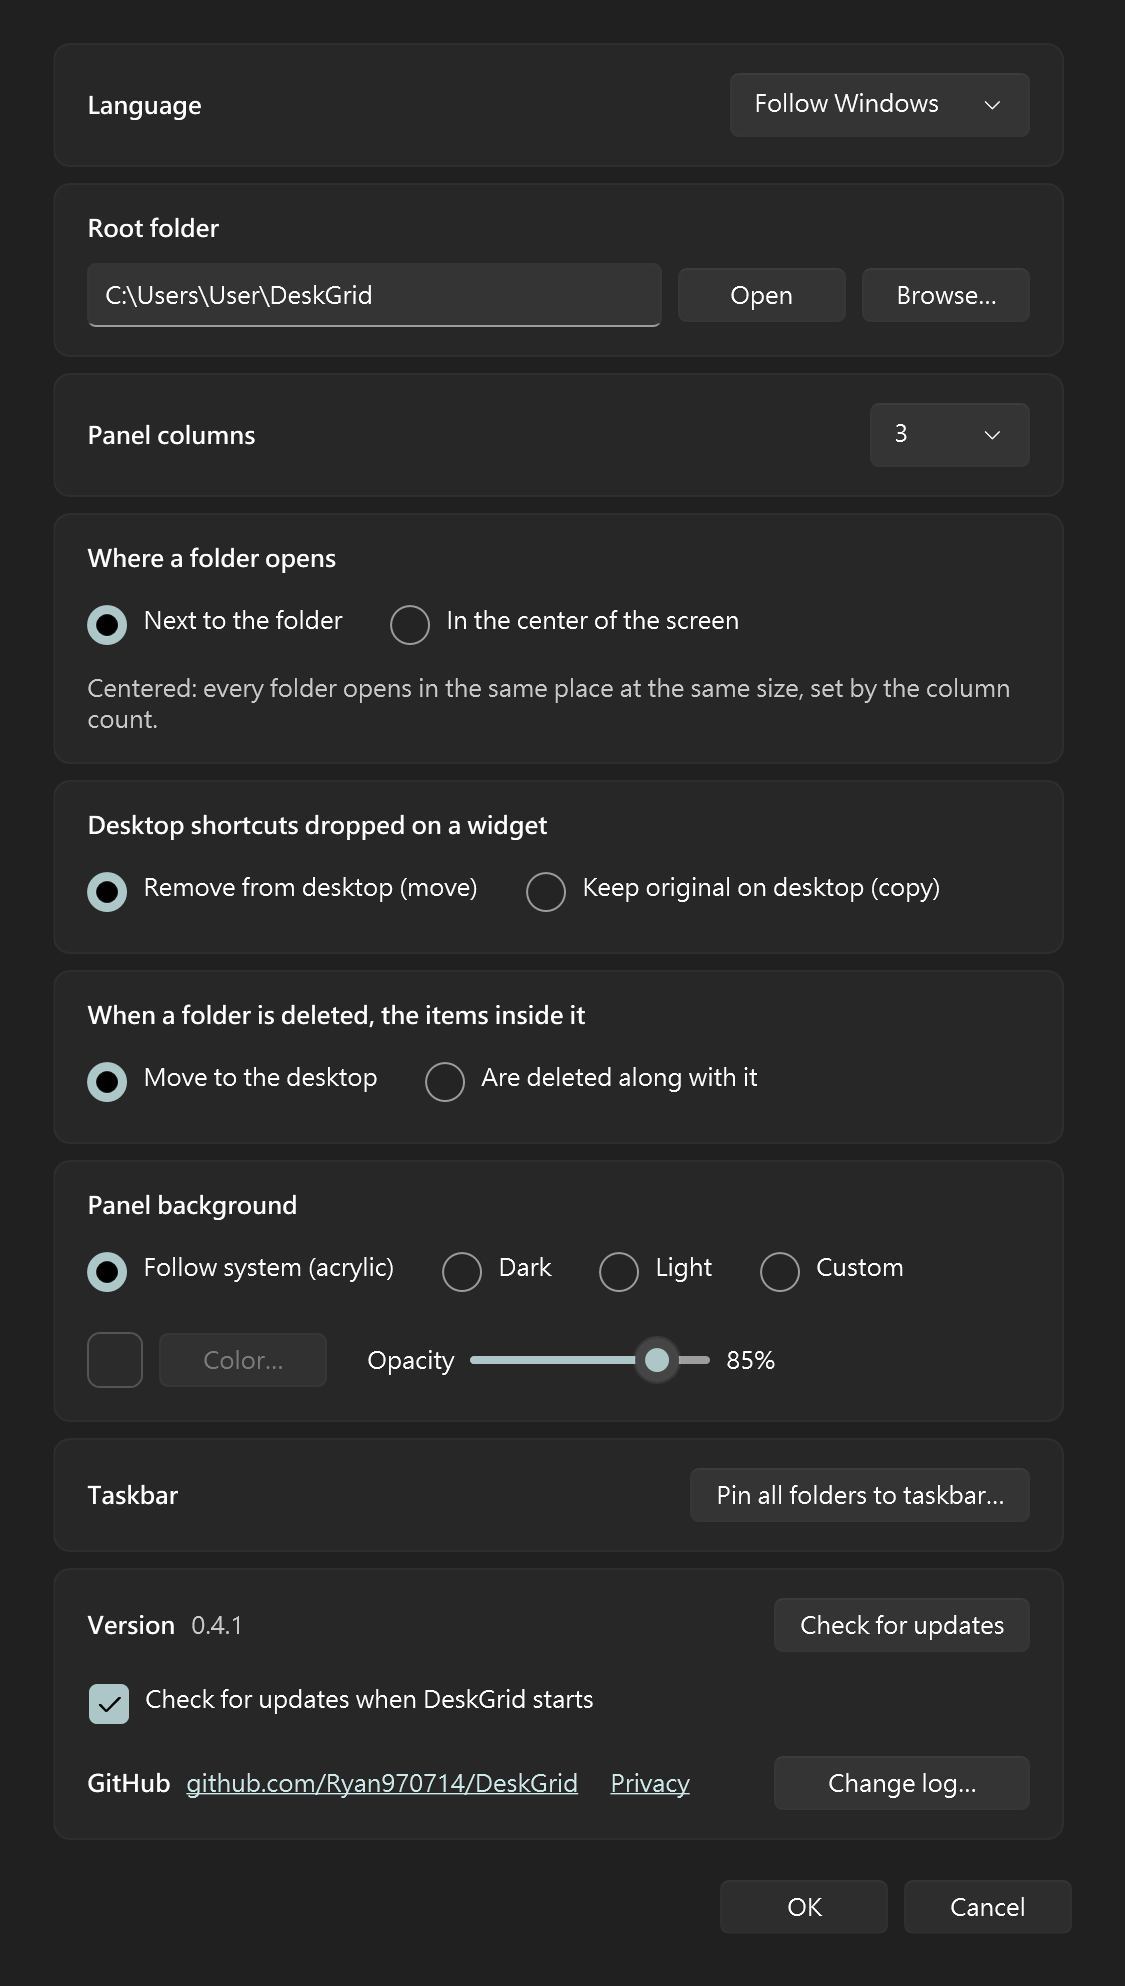
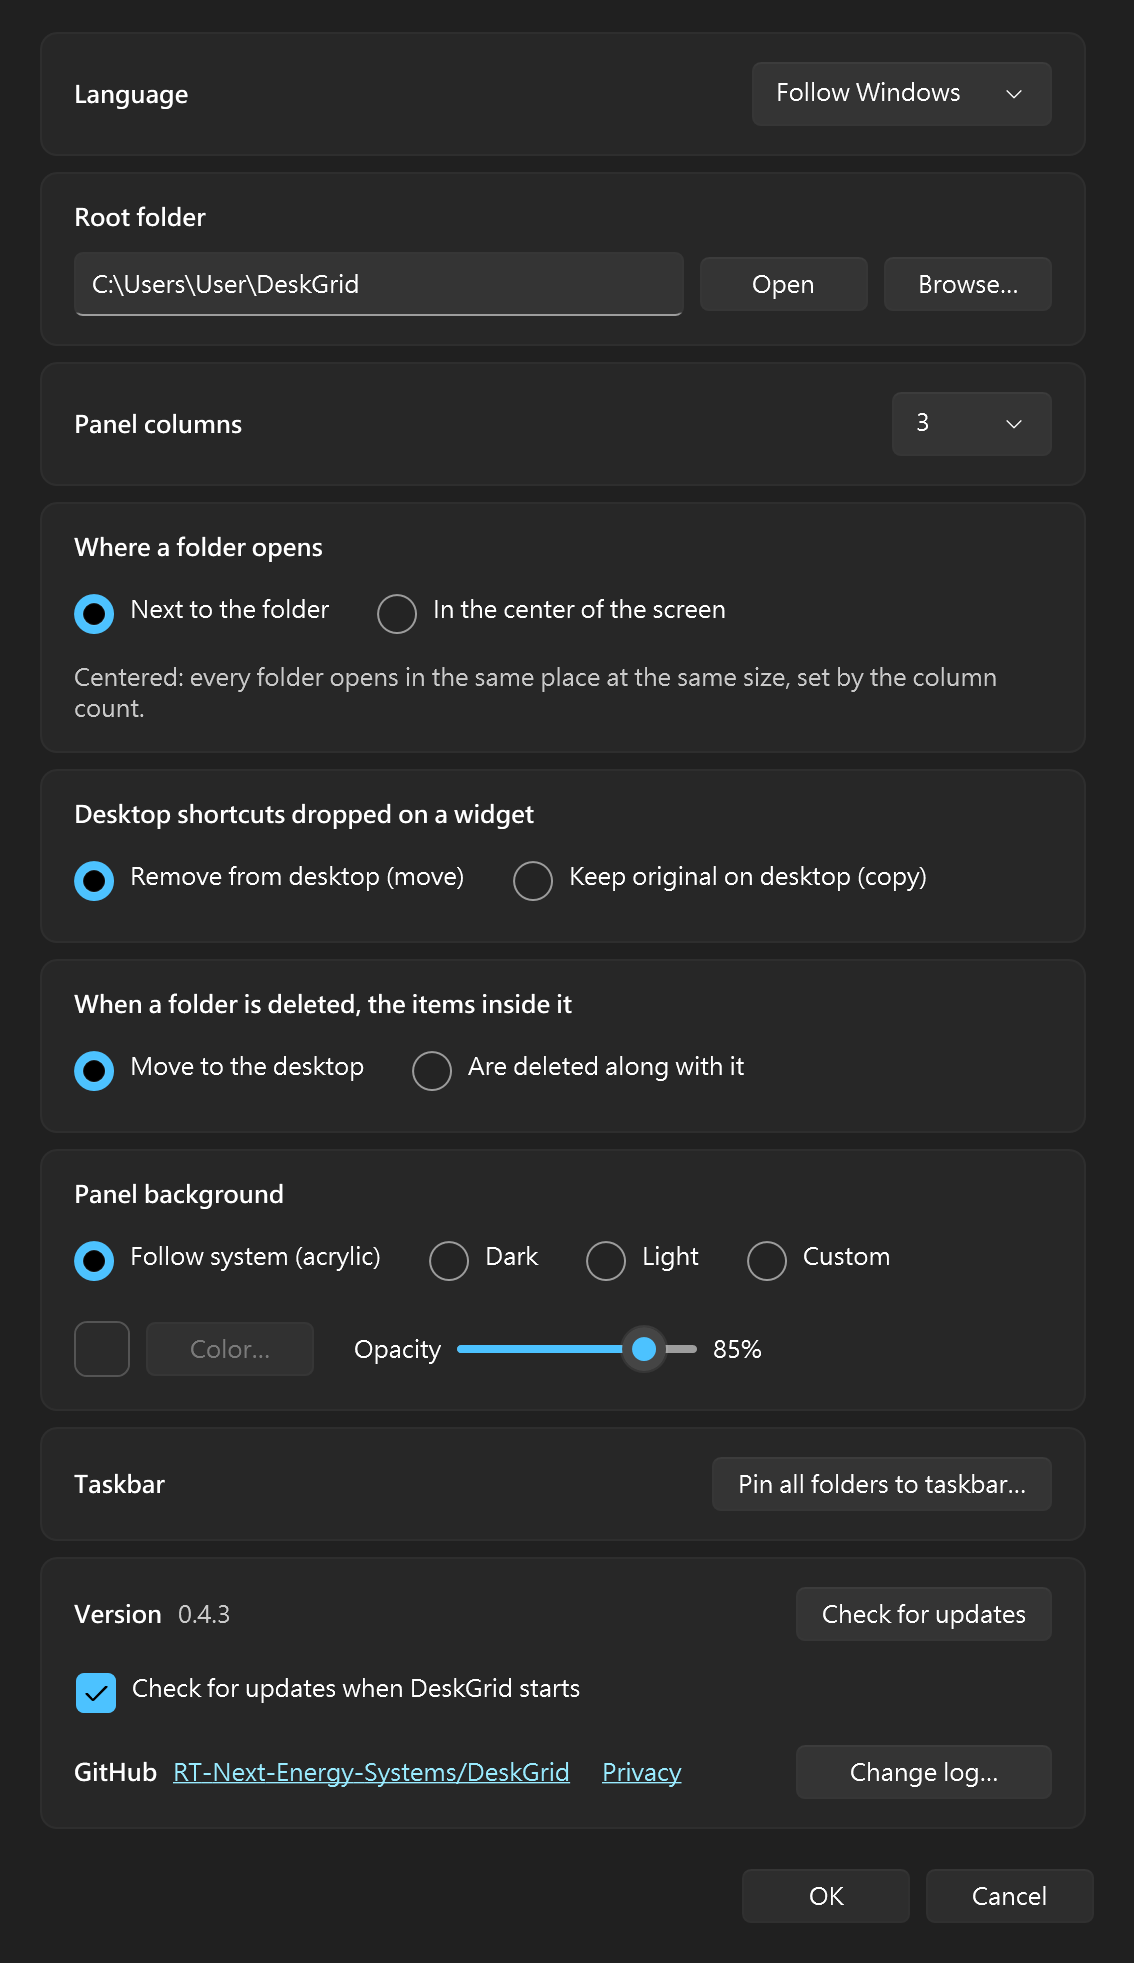
fix: keep the settings links clear of the Change log button
The repository's new address made the GitHub row wider than its column,
so the Privacy link ran under the Change log button. The link now shows
only owner/name (full address in the tooltip) and the row wraps instead
of overflowing. A test checks the row in both languages; the README's
settings screenshots are redrawn.

diff --git a/src/DeskGrid/Settings/SettingsWindow.xaml b/src/DeskGrid/Settings/SettingsWindow.xaml
@@ -129,12 +129,13 @@
 
             <CheckBox Grid.Row="1" Grid.Column="0" Grid.ColumnSpan="2" Margin="0,10,0,0" MinWidth="0" x:Name="CheckAtStartupBox" />
 
-            <StackPanel Grid.Row="2" Grid.Column="0" Margin="0,10,0,0" Orientation="Horizontal" VerticalAlignment="Center">
-              <TextBlock x:Name="GitHubLabel" FontWeight="SemiBold" />
-              <TextBlock Margin="8,0,0,0"><Hyperlink x:Name="GitHubLink" Click="OnGitHub" /></TextBlock>
-              <TextBlock Margin="16,0,0,0"><Hyperlink x:Name="PrivacyLink" Click="OnPrivacy" /></TextBlock>
-            </StackPanel>
-            <Button Grid.Row="2" Grid.Column="1" Margin="0,10,0,0" HorizontalAlignment="Stretch" MinWidth="84" Padding="12,5" x:Name="ChangeLogButton" Click="OnChangeLog" />
+            <!-- Wraps rather than running under the button when the links are too long for the column. -->
+            <WrapPanel Grid.Row="2" Grid.Column="0" Margin="0,10,12,0" VerticalAlignment="Center" x:Name="LinksRow">
+              <TextBlock x:Name="GitHubLabel" FontWeight="SemiBold" Margin="0,0,8,0" />
+              <TextBlock Margin="0,0,16,0"><Hyperlink x:Name="GitHubLink" Click="OnGitHub" /></TextBlock>
+              <TextBlock><Hyperlink x:Name="PrivacyLink" Click="OnPrivacy" /></TextBlock>
+            </WrapPanel>
+            <Button Grid.Row="2" Grid.Column="1" Margin="0,10,0,0" VerticalAlignment="Top" HorizontalAlignment="Stretch" MinWidth="84" Padding="12,5" x:Name="ChangeLogButton" Click="OnChangeLog" />
           </Grid>
         </Border>
       </StackPanel>

diff --git a/tests/DeskGrid.Tests/SettingsTests.cs b/tests/DeskGrid.Tests/SettingsTests.cs
@@ -1,5 +1,7 @@
 using System.Globalization;
 using System.IO;
+using System.Windows;
+using System.Windows.Media;
 using DeskGrid.Folders;
 using DeskGrid.Resources;
 using DeskGrid.Tray;
@@ -183,14 +185,7 @@ public sealed class SettingsWindowTests : IDisposable
         var picked = Enum.Parse<PanelBackgroundStyle>(pickedName);
         var choice = await _ui.InvokeAsync(() =>
         {
-            if (System.Windows.Application.Current is null)
-            {
-                // The windows take their card styles from App.xaml.
-                var app = new System.Windows.Application { ShutdownMode = System.Windows.ShutdownMode.OnExplicitShutdown };
-                app.Resources["Card"] = new System.Windows.Style(typeof(System.Windows.Controls.Border));
-                app.Resources["CardTitle"] = new System.Windows.Style(typeof(System.Windows.Controls.TextBlock));
-            }
-
+            EnsureApplication();
             var config = new AppConfig { RootPath = _root.Path, PanelBackground = new PanelBackground { Style = initial } };
             var window = new SettingsWindow(config);
             SettingsChoice? applied = null;
@@ -202,5 +197,62 @@ public sealed class SettingsWindowTests : IDisposable
         });
 
         Assert.Equal(picked, choice?.PanelBackground.Style);
+    }
+
+    [Theory]
+    [InlineData("en")]
+    [InlineData("zh-TW")]
+    public async Task GitHubRow_FitsBesideTheChangeLogButton(string culture)
+    {
+        var before = Strings.Culture;
+        try
+        {
+            var (overlaps, oneLine) = await _ui.InvokeAsync(() =>
+            {
+                EnsureApplication();
+                Strings.Culture = new CultureInfo(culture);
+                var window = new SettingsWindow(new AppConfig { RootPath = _root.Path });
+                try
+                {
+                    window.Show();
+                    window.UpdateLayout();
+                    var button = Bounds(window.ChangeLogButton, window);
+                    UIElement[] parts = [window.GitHubLabel, (UIElement)window.GitHubLink.Parent, (UIElement)window.PrivacyLink.Parent];
+                    var boxes = parts.Select(part => Bounds(part, window)).ToList();
+                    return (boxes.Any(box => box.IntersectsWith(button)), boxes.All(box => Math.Abs(box.Top - boxes[0].Top) < 1));
+                }
+                finally
+                {
+                    window.Close();
+                }
+            });
+
+            Assert.False(overlaps);
+            Assert.True(oneLine);
+        }
+        finally
+        {
+            Strings.Culture = before;
+        }
+    }
+
+    private static Rect Bounds(UIElement element, Visual root) =>
+        element.TransformToAncestor(root).TransformBounds(new Rect(element.RenderSize));
+
+    private static void EnsureApplication()
+    {
+        if (Application.Current is not null)
+        {
+            return;
+        }
+
+        // The windows take their card styles from App.xaml; the card's padding matters for what fits in a row.
+        var app = new Application { ShutdownMode = ShutdownMode.OnExplicitShutdown };
+        var card = new Style(typeof(System.Windows.Controls.Border));
+        card.Setters.Add(new Setter(System.Windows.Controls.Border.PaddingProperty, new Thickness(16, 14, 16, 14)));
+        card.Setters.Add(new Setter(System.Windows.Controls.Border.BorderThicknessProperty, new Thickness(1)));
+        card.Setters.Add(new Setter(FrameworkElement.MarginProperty, new Thickness(0, 0, 0, 8)));
+        app.Resources["Card"] = card;
+        app.Resources["CardTitle"] = new Style(typeof(System.Windows.Controls.TextBlock));
     }
 }

diff --git a/src/DeskGrid/Settings/SettingsWindow.xaml.cs b/src/DeskGrid/Settings/SettingsWindow.xaml.cs
@@ -142,8 +142,9 @@ internal partial class SettingsWindow : Window
         PinAllButton.Content = Strings.SettingsPinAll;
         GitHubLabel.Text = Strings.SettingsGitHub;
 
-        // Without the scheme: shorter, and it is still plainly the web address.
-        GitHubLink.Inlines.Add(UpdateChecker.RepositoryUrl["https://".Length..]);
+        // Only owner/name: the label already says GitHub, and the whole address would not fit beside the button.
+        GitHubLink.Inlines.Add(new Uri(UpdateChecker.RepositoryUrl).AbsolutePath.Trim('/'));
+        GitHubLink.ToolTip = UpdateChecker.RepositoryUrl;
         PrivacyLink.Inlines.Add(Strings.SettingsPrivacy);
         ChangeLogButton.Content = Strings.SettingsChangeLog;
         ColumnsLabel.Text = Strings.SettingsColumns;

diff --git a/CLAUDE.md b/CLAUDE.md
@@ -167,7 +167,7 @@ One folder per module, `src/DeskGrid/<Folder>/`, namespace `DeskGrid.<Folder>`.
 
 ## Version check and update
 
-- **Source**: `https://api.github.com/repos/RT-Next-Energy-Systems/DeskGrid/releases/latest` (anonymous, the 60 per hour limit is enough); drafts and prereleases are skipped; the tag minus `v` is compared with the assembly version (csproj `<Version>`) by major.minor.build. The exe asset is found by the suffix `-win-x64.exe` (the old v0.1.0 asset was called `DeskFolders-…`), the checksum file is `<exe name>.sha256`.
+- **Source**: `https://api.github.com/repos/RT-Next-Energy-Systems/DeskGrid/releases/latest` (anonymous, the 60 per hour limit is enough); drafts and prereleases are skipped; the tag minus `v` is compared with the assembly version (csproj `<Version>`) by major.minor.build (so a release number needs only three parts: a fourth, as in 0.4.2.1, is ignored and the release would never be offered). The exe asset is found by the suffix `-win-x64.exe` (the old v0.1.0 asset was called `DeskFolders-…`), the checksum file is `<exe name>.sha256`.
 - **Three choices**: Update (download → verify SHA256 (taken from the API `digest` field of the release asset) → `apply-update.ps1` waits for this process to end, then `Move-Item` overwrites the exe and starts it; only the published single-file exe can do this, `UpdateInstaller.CanReplaceSelf`; a development build or a folder that can't be written opens the release page instead), Keep (config `skippedUpdateVersion` records that tag, automatic checks stop reminding, a manual check still shows it), Cancel (stores nothing, reminds again at the next start).
 - **Triggers**: one automatic check 8 seconds after startup (a network failure is only logged, no disturbance); the settings window shows the current version and a "Check for updates" button, with the result text beside the button.
 - **Can be turned off** (2026-10-30, the SignPath Foundation terms require network behavior to be disclosed and switchable): the settings window's "Check for updates when DeskGrid starts" (config `checkForUpdatesAtStartup`, default on). When off, DeskGrid never goes online by itself; it contacts GitHub only when the user presses "Check for updates" or chooses "Update". The README's "Privacy" lists all network behavior; add to it whenever a network behavior is added.

diff --git a/CLAUDE.zh-TW.md b/CLAUDE.zh-TW.md
@@ -167,7 +167,7 @@ Windows 10 (22H2) / 11 桌面上的「手機式資料夾」：資料夾圖示顯
 
 ## 版本檢查與更新
 
-- **來源**：`https://api.github.com/repos/RT-Next-Energy-Systems/DeskGrid/releases/latest`（匿名，每小時 60 次上限夠用）；略過 draft / prerelease；tag 去掉 `v` 後與組件版本（csproj `<Version>`）比 major.minor.build。exe 資產用字尾 `-win-x64.exe` 找（舊 v0.1.0 資產叫 `DeskFolders-…`），校驗檔是 `<exe 名>.sha256`。
+- **來源**：`https://api.github.com/repos/RT-Next-Energy-Systems/DeskGrid/releases/latest`（匿名，每小時 60 次上限夠用）；略過 draft / prerelease；tag 去掉 `v` 後與組件版本（csproj `<Version>`）比 major.minor.build（所以發行版本只用三段：第四段如 0.4.2.1 會被忽略，該版永遠不會被提示更新）。exe 資產用字尾 `-win-x64.exe` 找（舊 v0.1.0 資產叫 `DeskFolders-…`），校驗檔是 `<exe 名>.sha256`。
 - **三個選項**：更新（下載 → 驗 SHA256（取自 release 資產的 API `digest` 欄位）→ `apply-update.ps1` 等本程序結束後 `Move-Item` 蓋掉 exe 再啟動；只有發布的單檔 exe 做得到，`UpdateInstaller.CanReplaceSelf`，開發版與無法寫入的資料夾改開 release 頁）、維持（config `skippedUpdateVersion` 記下該 tag，自動檢查不再提醒，手動檢查仍會彈）、取消（什麼都不存，下次啟動再提醒）。
 - **觸發**：啟動後 8 秒自動檢查一次（網路失敗只記 log，不打擾）；設定視窗顯示目前版本與「檢查更新」按鈕，結果文字顯示在按鈕旁。
 - **可關閉**（2026-10-30，SignPath Foundation 條款要求連網行為要揭露且能關）：設定視窗「DeskGrid 啟動時檢查更新」（config `checkForUpdatesAtStartup`，預設開）。關掉後 DeskGrid 不會自己連網，只有使用者按「檢查更新」或選「更新」才連 GitHub。README 的「隱私 / Privacy」列出所有網路行為，新增網路行為時要同步改。

diff --git a/context/decisions.md b/context/decisions.md
@@ -604,3 +604,12 @@ Also: `PopupPanel.SlideEasing` is frozen (shared across panels; the fix was lost
 **Alternatives**: Keep the old address and rely on the redirect (nothing to change, but the update check of every new version would hang on another account's name).
 **Consequences**: 0.4.1 and older keep asking the old address and depend on the redirect; versions from the next release on ask the new one. The SignPath application (#8) should name the new repository.
 **Author**: The user decided; Claude made the change
+
+---
+
+### 2026-11-07 — Release numbers keep three parts; the settings links show only owner/name
+**Decision**: The fix for the settings window's overlapping links ships as 0.4.3, not the 0.4.2.1 the user first suggested. In Settings, the GitHub link now reads `RT-Next-Energy-Systems/DeskGrid` (the full address is its tooltip), and the row of links is a `WrapPanel` with a 12 DIP gap before the "Change log…" button. `SettingsWindowTests.GitHubRow_FitsBesideTheChangeLogButton` checks, in both languages, that the links stay on one line and clear of the button (it fails on the 0.4.2 layout in English). The README's settings pictures were drawn again (0.4.3, new address).
+**Reason**: The update check compares versions by major.minor.build only (`UpdateChecker.Normalize`), so 0.4.2.1 would count as equal to 0.4.2 and nobody on 0.4.2 would be offered it. The links overlapped because the repository's new address is 11 characters longer than the old one, and a horizontal `StackPanel` doesn't stop at its column.
+**Alternatives**: Teach the update check a fourth part (a code change for a numbering style nothing needs); keep the full address and move "Privacy" to its own row (a taller card).
+**Consequences**: Every release bumps one of the first three parts. If the links still don't fit (a longer translation), they wrap under each other instead of running under the button.
+**Author**: The user asked for the fix and the release; Claude chose 0.4.3 and the layout

diff --git a/context/decisions.zh-TW.md b/context/decisions.zh-TW.md
@@ -606,3 +606,12 @@
 **Alternatives**: 保留舊位址、依賴轉址（不必改，但之後每個新版本的檢查更新都會掛在別人帳號的名稱上）。
 **Consequences**: 0.4.1 以前的版本仍查詢舊位址、依賴轉址；下一版起查詢新位址。SignPath 申請（#8）應填新的 repo。
 **Author**: 使用者決定；Claude 修改
+
+---
+
+### 2026-11-07 — 發行版本維持三段；設定中的連結只顯示 owner/name
+**Decision**: 設定視窗連結重疊的修正以 0.4.3 發佈，而不是使用者原先提的 0.4.2.1。設定中的 GitHub 連結現在顯示 `RT-Next-Energy-Systems/DeskGrid`（完整位址在滑鼠提示中），連結那一列改為 `WrapPanel`，與「更新紀錄…」按鈕之間留 12 DIP。`SettingsWindowTests.GitHubRow_FitsBesideTheChangeLogButton` 在兩種語言下檢查連結維持一行且不碰到按鈕（在 0.4.2 的英文版面會失敗）。README 的設定截圖已重畫（0.4.3、新位址）。
+**Reason**: 檢查更新只比 major.minor.build（`UpdateChecker.Normalize`），0.4.2.1 會被當成等於 0.4.2，使用 0.4.2 的人不會收到更新。連結重疊是因為 repo 新位址比舊的長 11 個字元，而水平 `StackPanel` 不會在欄寬處停下。
+**Alternatives**: 讓檢查更新認得第四段（為了用不到的編號方式改程式）；保留完整位址、把「隱私」移到自己一列（卡片變高）。
+**Consequences**: 每次發行都要遞增前三段之一。若連結仍放不下（較長的翻譯），會換行排列，而不是跑到按鈕底下。
+**Author**: 使用者要求修正並發行；版本號 0.4.3 與版面由 Claude 決定

diff --git a/CHANGELOG.zh-TW.md b/CHANGELOG.zh-TW.md
@@ -2,6 +2,12 @@
 
 與 `CHANGELOG.md`（英文）內容相同，設定視窗在繁體中文介面顯示這一份。兩份要一起維護。
 
+## 0.4.3
+
+### 修正
+
+- 專案位址變長之後，設定中的「隱私」連結被「更新紀錄…」按鈕蓋住。GitHub 連結現在只顯示 `RT-Next-Energy-Systems/DeskGrid`（完整位址在滑鼠提示中），連結放不下時會換行，不再重疊。
+
 ## 0.4.2
 
 ### 變更

diff --git a/CHANGELOG.md b/CHANGELOG.md
@@ -1,5 +1,13 @@
 # Changelog
 
+## 0.4.3
+
+### Fixed
+
+- In Settings, the "Privacy" link ran under the "Change log…" button since the project's address got longer. The
+  GitHub link now shows only `RT-Next-Energy-Systems/DeskGrid` (the full address is in its tooltip), and the links wrap
+  instead of overlapping when they don't fit.
+
 ## 0.4.2
 
 ### Changed
